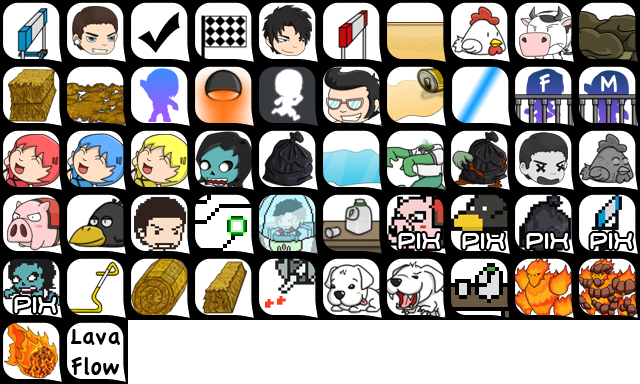
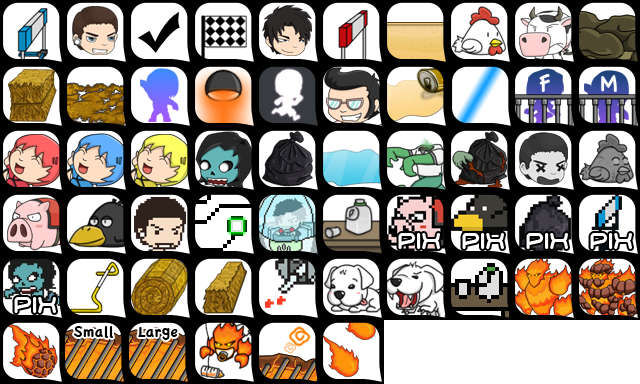
added fire baby object.

Changed region(s): [[0.0, 0.8125, 0.625, 1.0]]

diff --git a/Clay/Classes/Game/GameObjects/GameObject.m b/Clay/Classes/Game/GameObjects/GameObject.m
@@ -428,6 +428,7 @@
             NSLog(@"fireball stop");
             _currentBehavior = COLLISION_BEHAVIOR_FIREBALL_LANDED;
             [self setPlayerEffect:@"collide"];
+            [[SoundEngine shared] playSound:@"fireballLand"];
         }
     }
 
